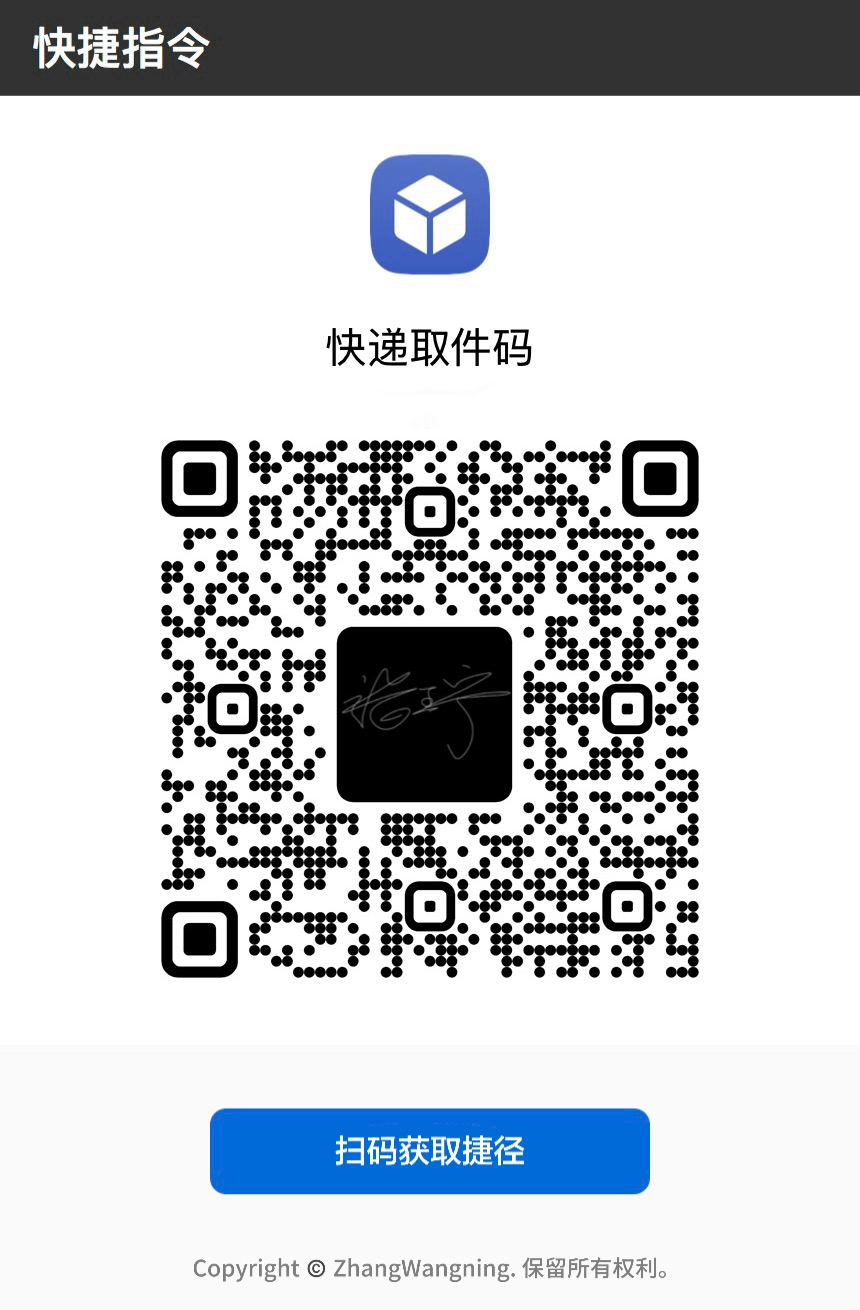
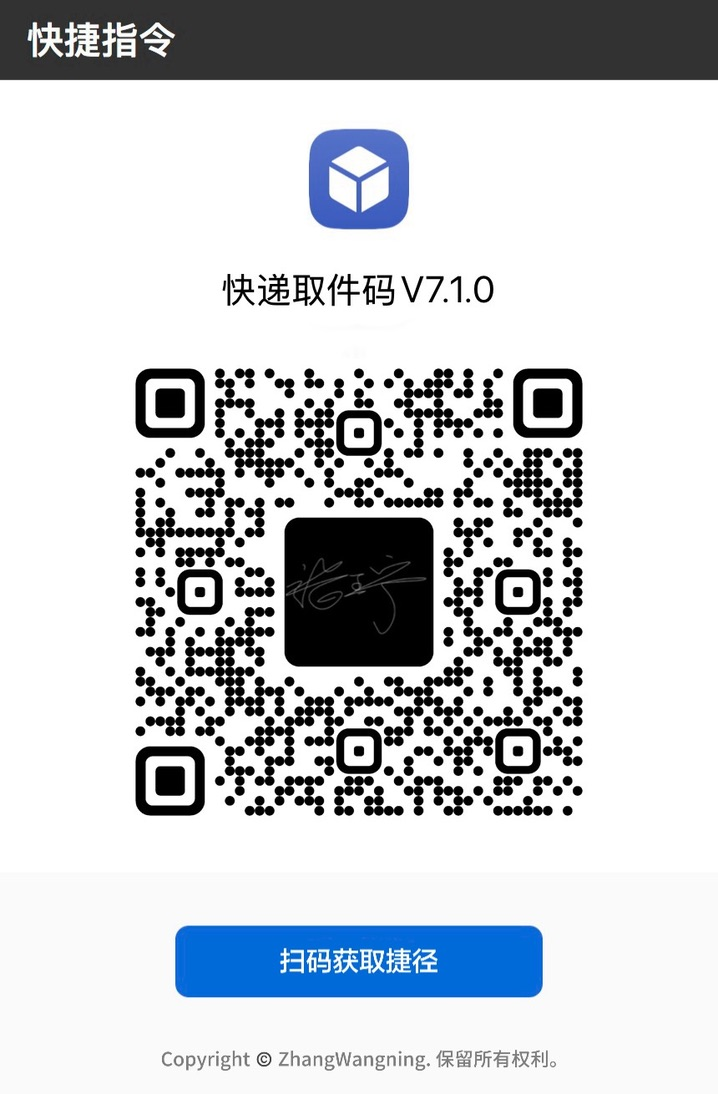
release: V7.1.0 在线更新检查 + 正则字典迁移
- 新增在线更新检查：拉取仓库 version.json 比对 versionCode
- 五套正则从「正则表达式」子字典迁至「配置」子字典
- 动作数 93 → 115（+22）
- 更新 iCloud 链接与二维码
- 归档 releases/v7.1.0/

Changed region(s): [[0.1838, 0.3108, 0.8273, 0.7459], [0.3064, 0.2486, 0.7047, 0.2797], [0.4596, 0.8702, 0.5209, 0.9013]]

diff --git a/README.md b/README.md
@@ -25,7 +25,7 @@
 点击下方链接，在 Safari 中打开即可添加：
 
 ```
-https://www.icloud.com/shortcuts/6a0354a4502c4c25a431238541af4969
+https://www.icloud.com/shortcuts/527837f174134f6680cc528f85f98bc6
 ```
 
 > 💡 **提示**：打开链接后选择「获取快捷指令」，首次使用需在「设置 → 快捷指令」中允许运行。
@@ -67,18 +67,19 @@ https://gitee.com/zhang_wangning/shortcut_pickup_code/raw/master/pickup-code.sho
 
 ## 🔧 技术原理
 
-整个指令由 **93 个动作**组成，分为 6 个阶段：
+整个指令由 **115 个动作**组成，分为 7 个阶段：
 
 | 阶段 | 动作范围 | 作用 |
 | --- | --- | --- |
-| 配置与字典管理 | 1–16 | 初始化参数，自动创建提醒列表 |
-| 写入提醒事项 | 17–28 | 把结果固化成可追踪的记录 |
-| 循环处理 | 29–44 | 批量处理多条 / 多个匹配项 |
-| 提取关键信息 | 45–65 | 用正则抓取取件码、运单号、站点 |
-| 条件判断（一） | 66–76 | 按快递公司 / 格式分流 |
-| 条件判断（二） | 77–93 | 按是否已记录分流 |
+| 在线更新检查 | 1–22 | 拉取仓库 version.json，比对版本号，有更新时展示 changelog |
+| 配置与字典管理 | 23–38 | 初始化参数，自动创建提醒列表 |
+| 写入提醒事项 | 39–50 | 把结果固化成可追踪的记录 |
+| 循环处理 | 51–66 | 批量处理多条 / 多个匹配项 |
+| 提取关键信息 | 67–87 | 用正则抓取取件码、运单号、站点 |
+| 条件判断（一） | 88–98 | 按快递公司 / 格式分流 |
+| 条件判断（二） | 99–115 | 按是否已记录分流 |
 
-**五套正则协作（全部由 config 字典的「正则表达式」子字典驱动）**：
+**五套正则协作（全部由 config 字典的「配置」子字典驱动）**：
 - 快递平台正则：识别 30+ 家快递 / 驿站 / 智能柜（含 SF、STO、ZTO、EMS、J&T 等英文标识）
 - 取件码正则：支持连字符、字母混合、纯数字，并排除 11 位手机号误识别
 - 运单号正则：识别 `SF`/`JD` 等长单号格式
@@ -86,11 +87,12 @@ https://gitee.com/zhang_wangning/shortcut_pickup_code/raw/master/pickup-code.sho
 
 ## 📋 版本历史
 
-详见 [CHANGELOG.md](CHANGELOG.md)，各版本记录见 [`releases/`](releases/) 目录（V7.0.0 为当前发行版，含二维码与安装包；v6.4.x 为历史文档记录）。
+详见 [CHANGELOG.md](CHANGELOG.md)，各版本记录见 [`releases/`](releases/) 目录（V7.1.0 为当前发行版，含二维码与安装包；V7.0.0 及 v6.4.x 为历史记录）。
 
 | 版本 | 发布日期 | 类型 | 记录 |
 | --- | --- | --- | --- |
-| **V7.0.0** | 2026-08-03 | 发行版 | [releases/v7.0.0](releases/v7.0.0/)（含二维码 + 安装包） |
+| **V7.1.0** | 2026-08-08 | 发行版 | [releases/v7.1.0](releases/v7.1.0/)（含二维码 + 安装包） |
+| V7.0.0 | 2026-08-03 | 历史记录 | [releases/v7.0.0](releases/v7.0.0/)（含二维码 + 安装包） |
 | V6.4.2 | 2026-06-07 | 历史记录 | [releases/v6.4.2](releases/v6.4.2/)（仅文档） |
 | V6.4.1 | 2026-06-05 | 历史记录 | [releases/v6.4.1](releases/v6.4.1/)（仅文档） |
 | V6.4.0 | 2026-05-25 | 历史记录 | [releases/v6.4.0](releases/v6.4.0/)（仅文档） |
@@ -103,7 +105,7 @@ https://gitee.com/zhang_wangning/shortcut_pickup_code/raw/master/pickup-code.sho
   ```
   https://gitee.com/zhang_wangning/shortcut_pickup_code/raw/master/version.json
   ```
-- **比对机制**：快捷指令自身保存一个 `versionCode`（当前 V7.0.0 = `700`）；拉取上述 JSON 后比较 `current.versionCode`，若数值更大即提示有新版本，并展示 `current.changelog` 更新要点。
+- **比对机制**：快捷指令自身保存一个 `versionCode`（当前 V7.1.0 = `710`）；拉取上述 JSON 后比较 `current.versionCode`，若数值更大即提示有新版本，并展示 `current.changelog` 更新要点。
 - **新版入口**：JSON 中的 `current.icloudUrl` 与 `current.shortcutRawUrl` 即最新版获取地址。
 
 > 📌 **发版约定**：每次更新快捷指令，只需同步更新 `version.json` 的 `current` 字段（版本号 / versionCode / releaseDate / changelog）并提交仓库，即自动成为可信的版本信息源——这也是本仓库存在的核心目的之一。

diff --git a/CHANGELOG.md b/CHANGELOG.md
@@ -9,6 +9,24 @@
 
 ---
 
+## [V7.1.0] - 2026-08-08
+
+> 新增**在线更新检查**机制，快捷指令可自动检测仓库中的最新版本。
+
+### 🆕 新增
+- **在线更新检查**：启动时通过 Base64 解码获取仓库链接，调用「获取 URL 内容」拉取 `version.json`，比对 `versionCode`（整数比较）检测是否有新版本。
+- 有更新时展示 `changelog` 更新要点，并提供新版获取入口（iCloud 链接 + 仓库 `.shortcut` 直链）。
+
+### 🔧 改进
+- **正则字典迁移**：五套正则（快递平台 / 取件码 / 运单号 / 取件地址1 / 地址2）从 config 字典的「正则表达式」子字典迁移至「配置」子字典。**正则内容零改动**，仅位置调整，为后续集中管理做铺垫。
+- **动作规模增长**：93 → 115 个动作（+22），增量主要来自在线更新检查模块（URL 获取 → 字典检测 → 版本比对 → 结果展示 条件链路）。
+
+### 📋 沿用
+- 取件码 / 运单号 / 取件地址 / 快递平台 正则规则全部沿用 V7.0.0，无任何修改。
+- 短信自动化触发、提醒事项写入、去重打勾、系统通知等核心逻辑不变。
+
+---
+
 ## [V7.0.0] - 2026-08-03
 
 > 本次为一次**正则架构重构**，相对旧版（2025-07-03 快照）做了系统性升级。
@@ -62,6 +80,7 @@
 
 [//]: # (版本链接)
 
+[V7.1.0]: https://gitee.com/zhang_wangning/shortcut_pickup_code/tree/V7.1.0
 [V7.0.0]: https://gitee.com/zhang_wangning/shortcut_pickup_code/tree/V7.0.0
 [V6.4.2]: https://gitee.com/zhang_wangning/shortcut_pickup_code/tree/V6.4.2
 [V6.4.1]: https://gitee.com/zhang_wangning/shortcut_pickup_code/tree/V6.4.1

diff --git a/releases/README.md b/releases/README.md
@@ -1,14 +1,15 @@
 # 版本归档 (releases)
 
-本目录按版本号归档快捷指令。其中 **V7.0.0 是当前唯一的发行版**，含二维码与安装包；v6.4.x 为历史版本的文档记录（仅 `info.md`，无独立安装包）。
+本目录按版本号归档快捷指令。其中 **V7.1.0 是当前发行版**，含二维码；V7.0.0 为上一版发行版；v6.4.x 为历史版本的文档记录（仅 `info.md`，无独立安装包）。
 
-> **默认显示最新版**：打开仓库根目录 [`README.md`](../README.md) 即可看到最新版（V7.0.0）的二维码与 iCloud 链接；本目录用于回溯历史版本。
+> **默认显示最新版**：打开仓库根目录 [`README.md`](../README.md) 即可看到最新版（V7.1.0）的二维码与 iCloud 链接；本目录用于回溯历史版本。
 
 ## 版本列表
 
 | 版本 | 发布日期 | 类型 | 说明 / 文件 |
 | --- | --- | --- | --- |
-| **V7.0.0** | 2026-08-03 | 发行版 | [v7.0.0/](v7.0.0/)（含二维码 + 安装包） |
+| **V7.1.0** | 2026-08-08 | 发行版 | [v7.1.0/](v7.1.0/)（含二维码） |
+| V7.0.0 | 2026-08-03 | 历史记录 | [v7.0.0/](v7.0.0/)（含二维码 + 安装包） |
 | V6.4.2 | 2026-06-07 | 历史记录 | [v6.4.2/](v6.4.2/)（仅文档） |
 | V6.4.1 | 2026-06-05 | 历史记录 | [v6.4.1/](v6.4.1/)（仅文档） |
 | V6.4.0 | 2026-05-25 | 历史记录 | [v6.4.0/](v6.4.0/)（仅文档） |

diff --git a/releases/v7.1.0/info.md b/releases/v7.1.0/info.md
@@ -1,0 +1,26 @@
+# 快递取件码 V7.1.0
+
+**发布日期**：2026-08-08  
+**版本号**：7.1.0（versionCode: 710）  
+**动作数**：115 个（较 V7.0.0 的 93 个增加 22 个）
+
+## 获取方式
+
+| 方式 | 链接/操作 |
+| --- | --- |
+| 扫码 | 扫描本目录下的 `qrcode.jpeg` |
+| iCloud | https://www.icloud.com/shortcuts/527837f174134f6680cc528f85f98bc6 |
+| 仓库下载 | 根目录 `pickup-code.shortcut` |
+
+## 更新内容
+
+### 🆕 新增
+- **在线更新检查**：启动时自动拉取仓库 `version.json`，比对 versionCode 检测新版本，有更新时展示 changelog 并提供新版获取入口（iCloud 链接 + 仓库直链）
+
+### 🔧 改进
+- **正则字典迁移**：五套正则从 config 字典的「正则表达式」子字典迁移至「配置」子字典，内容零改动，为后续集中管理做铺垫
+- **动作规模增长**：93 → 115 个动作（+22），主要来自在线更新检查模块
+
+### 📋 沿用
+- 取件码 / 运单号 / 取件地址 / 快递平台 正则规则全部沿用 V7.0.0，无修改
+- 短信自动化触发、提醒事项写入、去重打勾逻辑不变
